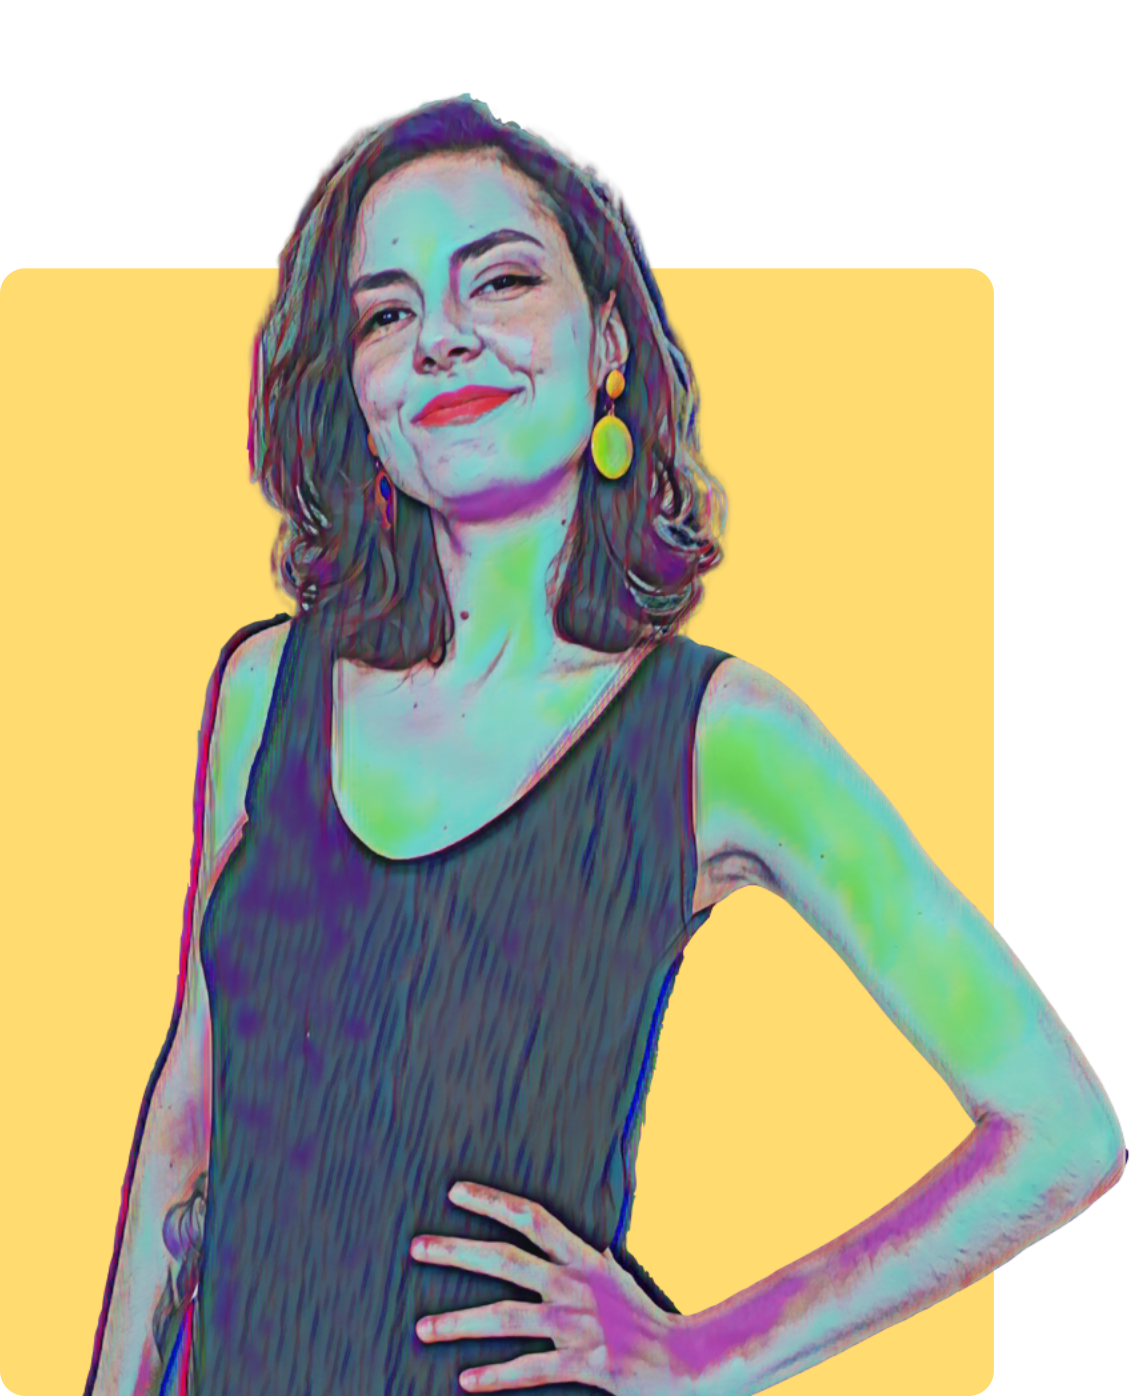
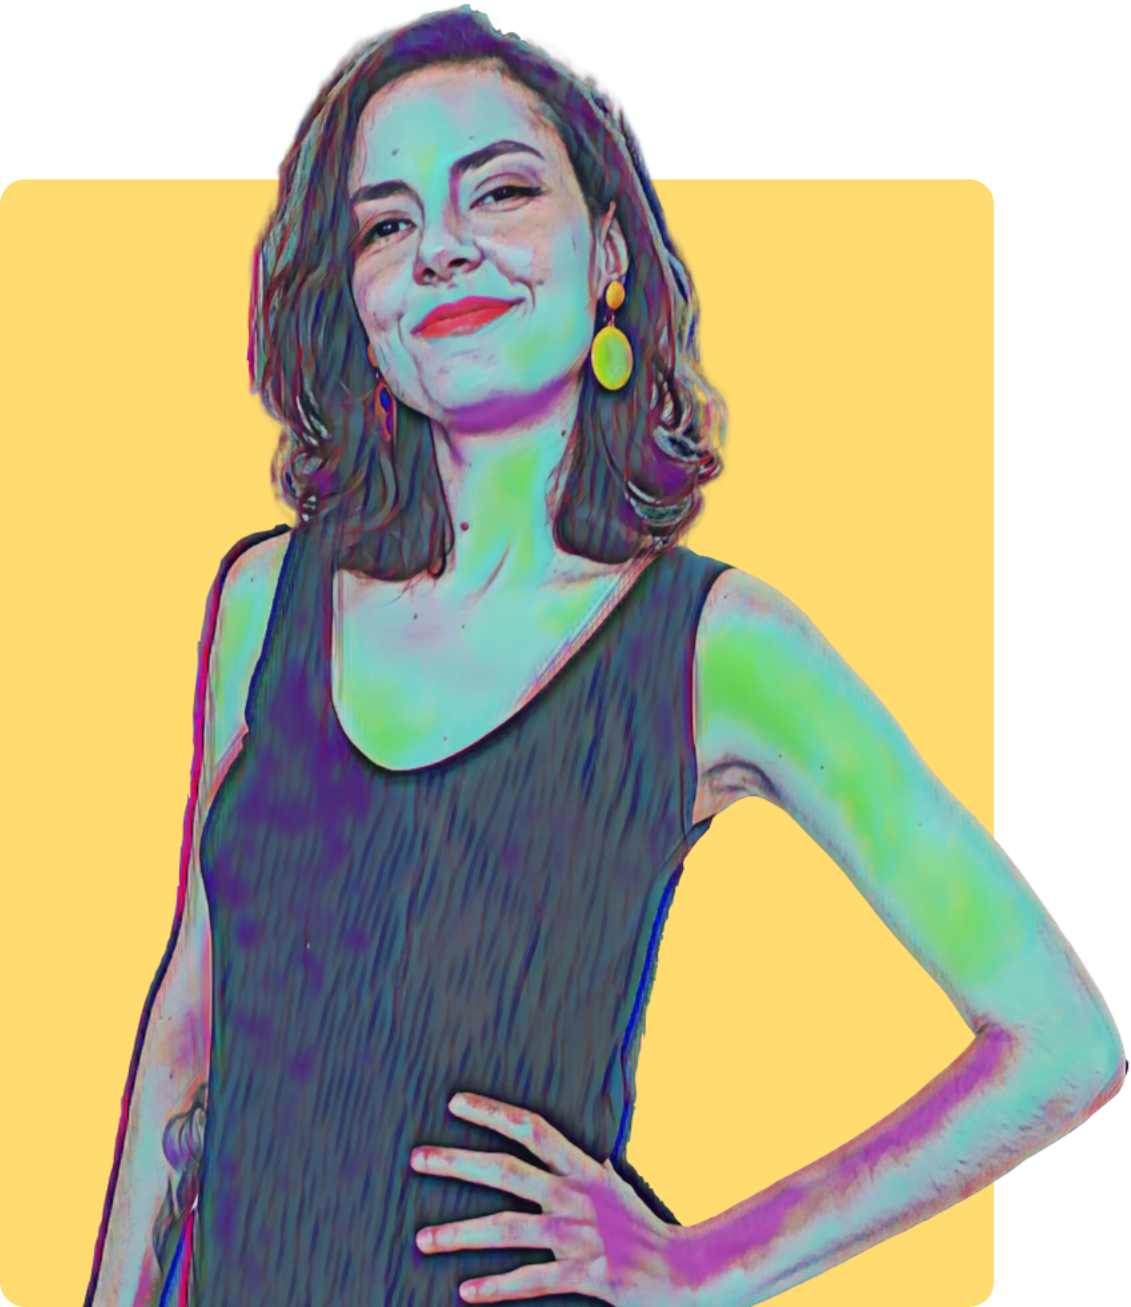
Fixing intro image positioning

diff --git a/src/index.html b/src/index.html
@@ -14,7 +14,7 @@
     <link rel="stylesheet" href="./styles/main.min.css" />
 </head>
 
-<body class="red-bg">
+<body>
     <div class="container">
         <!-- INTRO -->
         <section id="intro" class="row">
@@ -32,19 +32,21 @@
         </section>
 
         <!-- ABOUT ME -->
-        <section class="content-section about-me row">
-            <div class="title-container col-12 order-first-mobile">
-                <h2>Sobre mim</h2>
-            </div>
-            <div class="col-md-6 order-two-mobile">
-                <p>Uma designer que adora ouvir novas histórias e aprender com elas. Busco sempre pensar de forma
-                    analítica, gosto de explorar novos caminhos e metodologias e acredito que não vamos a lugar nenhum
-                    sozinhos.</p>
-                <br />
-                <button>Acesse o LinkedIn</button>
-            </div>
-            <div class="col-md-6 green-bg order-one-mobile">
-                <img class="about-me-image" src="img/gabi-leitora.png" />
+        <section class="content-section">
+            <div class="about-me row">
+                <div class="title-container col-12 order-first-mobile">
+                    <h2>Sobre mim</h2>
+                </div>
+                <div class="text-container col-md-6 order-two-mobile align-self-end">
+                    <p>Uma designer que adora ouvir novas histórias e aprender com elas. Busco sempre pensar de forma
+                        analítica, gosto de explorar novos caminhos e metodologias e acredito que não vamos a lugar
+                        nenhum
+                        sozinhos.</p>
+                    <button>Acesse o LinkedIn</button>
+                </div>
+                <div class="col-md-6 order-one-mobile align-self-center">
+                    <img class="about-me-image" src="img/gabi-leitora.png" />
+                </div>
             </div>
         </section>
 

diff --git a/src/styles/about-me.less b/src/styles/about-me.less
@@ -7,15 +7,33 @@
     .title-container {
         border-radius: 10px 0 0 10px;
         margin-left: 2rem;
+
+        h2 {
+            margin-left: -1rem;
+        }
     }
 
-    h2 {
-        margin-left: -1rem;
-    }
+    .text-container {
+        padding-left: 2rem;
+        padding-right: 5rem;
 
-    button {
-        background-color: @purple;
-        color: @white;
+        @media screen and (max-width: @md-breakpoint-width) {
+            padding-left: 1rem;
+            padding-right: 1rem;
+        }
+
+        p {
+            margin-bottom: 5rem;
+
+            @media screen and (max-width: @md-breakpoint-width) {
+                margin-bottom: 2rem;
+            }
+        }
+
+        button {
+            background-color: @purple;
+            color: @white;
+        }
     }
 
     .about-me-image {

diff --git a/src/styles/main.less b/src/styles/main.less
@@ -46,6 +46,10 @@ strong {
     .order-two-mobile {
         order: 2;
     }
+
+    .order-three-mobile {
+        order: 3;
+    }
 }
 
 
@@ -54,9 +58,18 @@ strong {
 .content-section {
     min-height: 95vh;
 
+    .row {
+        --bs-gutter-y: 5rem;
+        margin-top: 0;
+
+        @media screen and (max-width: @md-breakpoint-width) {
+            --bs-gutter-y: 2rem;
+        }
+    }
+
     .title-container {
         display: block;
-        width: 100%;
+        width: 100vw;
         height: 32px;
         background-color: @yellow;
         margin-top: 10vh;
@@ -71,7 +84,7 @@ strong {
 
     p {
         font-size: 18px;
-        font-weight: 500;
+        font-weight: 300;
         letter-spacing: 0.14rem;
         line-height: 130%;
     }

diff --git a/src/styles/intro.less b/src/styles/intro.less
@@ -51,6 +51,7 @@
         @media screen and (max-width: @md-breakpoint-width) {
             max-height: 60vh;
             max-width: unset;
+            padding-left: 10vw;
         }
     }
 }
